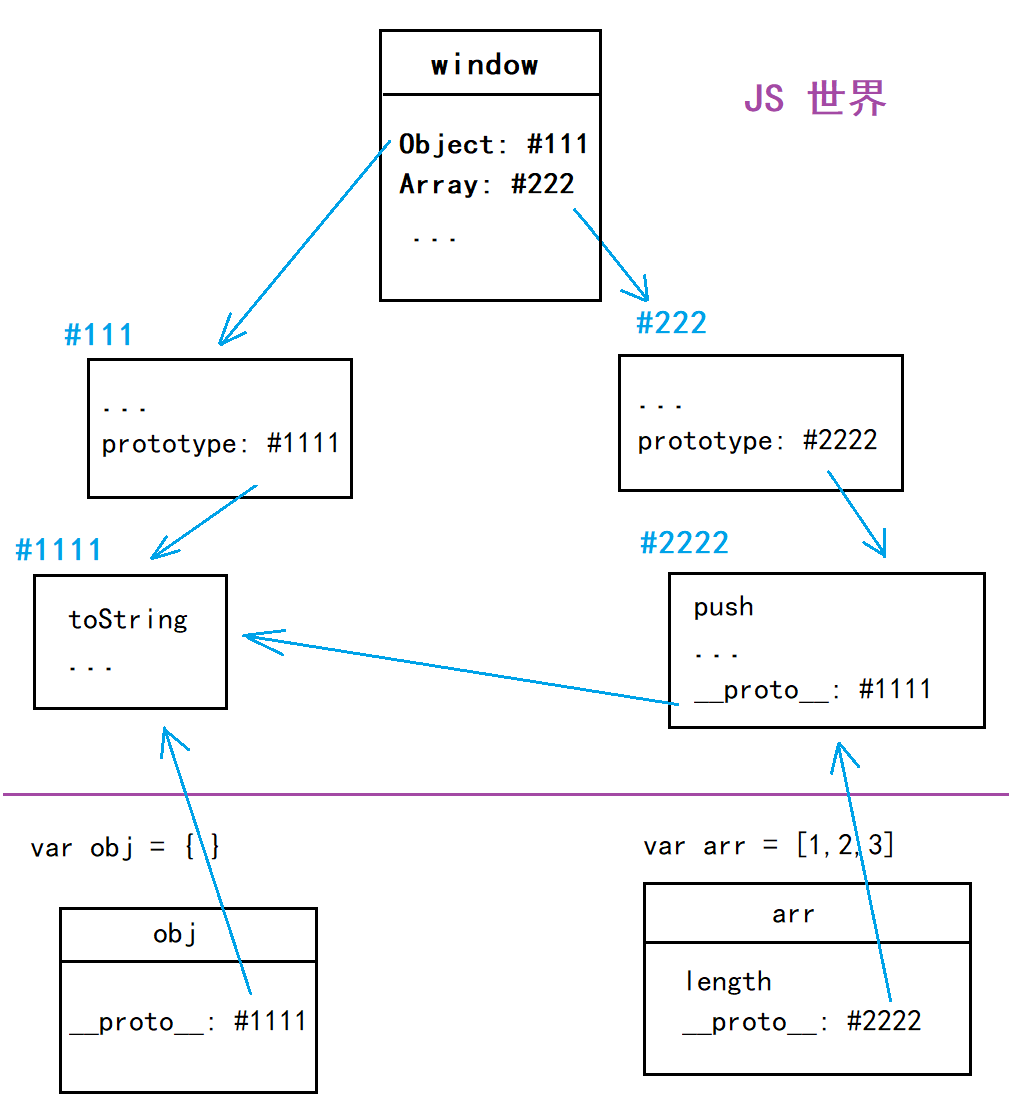
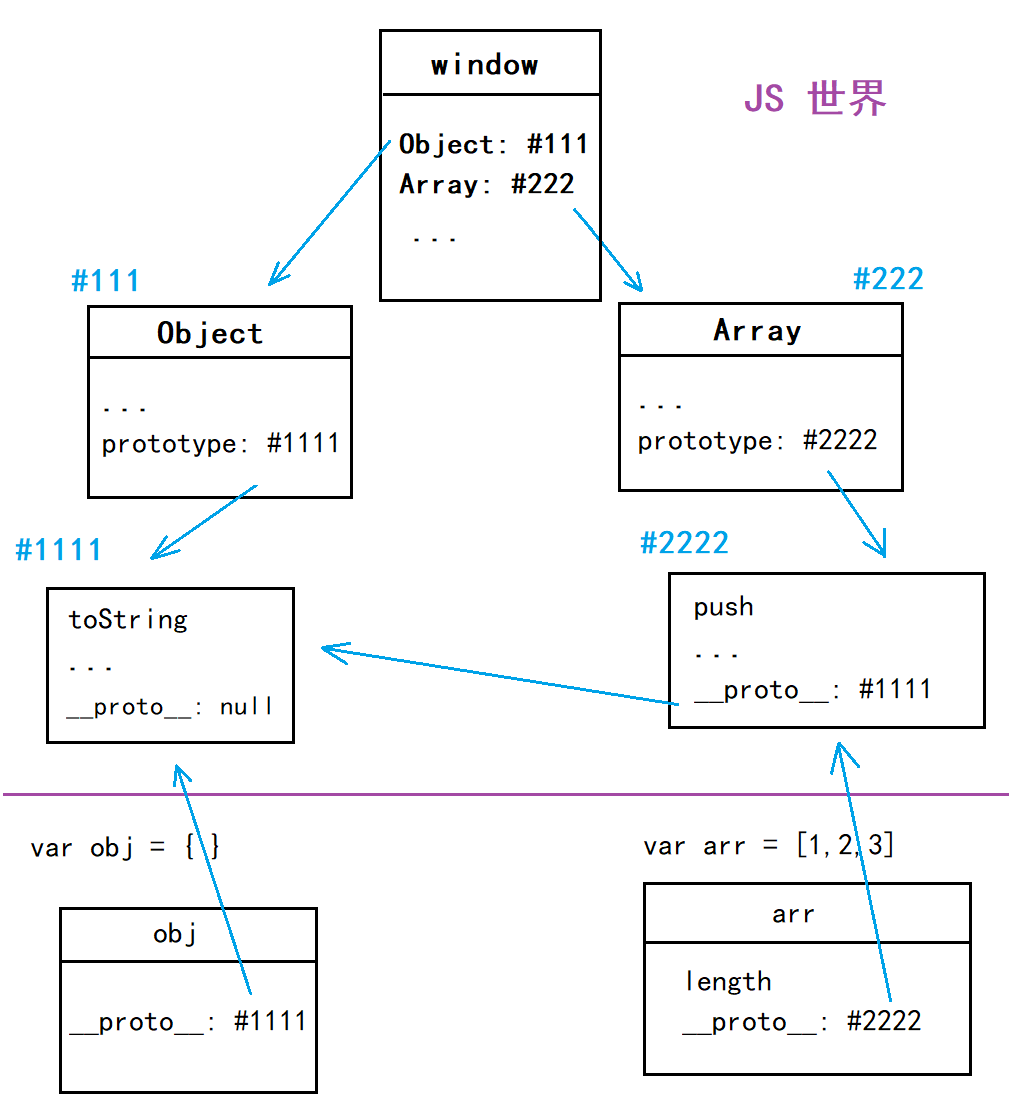
JS对象

diff --git a/JavaScript/JS数据类型.md b/JavaScript/JS数据类型.md
@@ -1,0 +1,146 @@
+# JS 数据类型
+
+推荐网站：[JavaScript 秘密花园](https://bonsaiden.github.io/JavaScript-Garden/zh/)
+
+### 数字与字符串
+
+* 数字能加减乘除，字符串只能拼接
+* 字符串能表示电话号码，数字不行
+
+###### 存储形式
+
+* 数字用 64 位浮点数形式存储
+* 字符串用类似 UTF8 形式存储（UCS-2）
+
+###### 字符编码
+
+* 0：48
+* A：65
+* a：97
+
+### 数据类型
+
+* ### number
+
+  * ###### 特殊值
+
+    * 正 0 和 负 0
+    * 无穷：Infinity、+Infinity、-Infinity
+    * 无法表示的数字：NaN
+
+  * ###### 范围
+
+    * Number.MAX_VALUE：1.7976931348623157e+308
+    * Number.MIN_VALUE：5e-324
+
+  * ###### 精度
+
+    * 最多 52+1 个二进制有效数字，对应十进制：9e+15
+    * 小于 90 开头16位的有效数字都能精确表示
+
+* ### string
+
+  使用 2 字节定长 UTF-8  
+
+  * ###### 转义
+
+    * \\' 表示 '
+    * \\n 表示换行
+    * \\r 表示回车
+    * \\t 表示 tab 制表符
+    * \\\ 表示 \
+    * \\uFFFF 表示对应的 Unicode 字符
+    * \\xFF 表示前 256 个 Unicode 字符
+
+  * ###### 属性
+
+    * string.length
+    * string[index]
+
+  * ###### base64转码
+
+    * 正常字符串转为 Base64 编码的字符串：window.btoa
+    * Base64 编码的字符串转为原来的字符串： window.atob
+
+* ### bool
+
+  * ###### 五个 falsy 值
+
+    相当于 false 但又不是 false
+
+    * undefined
+    * null
+    * 0
+    * NaN
+    * ''
+
+* ### undefined
+
+  * 声明变量没有赋值，默认值为 undefined
+  * 函数没有 return，默认 return undefined
+  * 习惯上非对象空值写为 undefined
+
+* ### null
+
+  * 习惯上对象空值写为 null
+
+* ### object
+
+* ### symbol
+
+* ### bigint
+
+### 变量声明
+
+### let
+
+###### 规则
+
+* 遵循块作用域，即：使用范围不超出 {}
+* 不能重复声明
+* 可以赋值，也可以不赋值
+* 必须先声明再使用
+* 全局声明的 let 变量，不会变成 window 的属性
+* 配合 for 循环使用有奇效
+
+### const
+
+###### 规则
+
+* 遵循块作用域，即：使用范围不超出 {}
+* 不能重复声明
+* 声明时就要赋值，赋值后不能改变
+* 必须先声明再使用
+* 全局声明的 const 变量，不会变成 window 的属性
+
+### 类型转换
+
+* #### number => string
+
+  * String(n)
+  * n + ''
+
+* #### string => number
+
+  * Number(s)
+  * parseInt(s) （转换为整数，但其实还是浮点数）/ parseFloat(s)（转换为浮点数）
+  * s - 0
+
+* #### x => bool
+
+  * Boolean(x)
+  * !!x
+
+* #### x => string
+
+  * String(x)
+
+    有bug：String(100000000000000000000) => 1e+22
+
+  * x.toString()
+
+    1.toString() 无法识别
+
+    * (1).toString()
+    * 1 .toString()
+    * 1..toString()

diff --git a/JavaScript/JS对象.md b/JavaScript/JS对象.md
@@ -1,0 +1,104 @@
+# JS 对象
+
+### 定义
+
+* 无序的数据集合
+* 键值对的集合
+
+###### 键值对
+
+属性名（键名）：属性值（键值）
+
+### 写法
+
+```javascript
+let obj = {
+    ’name‘: 'zxy',
+    ’age‘: 18
+}
+---------------
+let obj = new Object({’name‘: 'zxy'})
+---------------
+console.log({’name‘: 'zxy'})
+---------------
+// 用变量当属性名
+let a = 'xxx'
+// let a = Symbol()，除了字符串，symbol也能做属性名
+let obj = {
+    [a]: 111
+}
+// obj => { xxx: 111  }
+```
+
+### 细节
+
+* 键名是字符串，不是标识符，可以包含任意字符
+* 键名引号可省略，省略之后部分字符不能用
+* **省略引号依然是字符串**，数字变成字符串会进行换算
+* Object.keys(obj) 可以得到 obj 的所有 key
+
+### 原型
+
+* JS 中每个对象里有一个隐藏属性：\__proto__（名称没有规范）
+* 隐藏属性储存着其 **共有属性组成的对象** 的地址
+* **公有属性组成的对象** 叫 原型
+* 即：隐藏属性储存着原型的地址
+
+##### 每个对象都有原型
+
+* 原型里存着对象的共有属性
+* obj.\__proto__ 存着原型的地址
+
+##### 对象的原型也是对象
+
+* 对象的原型也有原型
+* obj = {} 的原型即为所有对象的原型
+* 这个原型包含所有对象的共有属性，是对象的根
+* 这个原型的原型为 null
+
+### 增删改查
+
+#### 删
+
+* delete obj.xxx
+* delete obj['xxx']
+
+#### 查
+
+* 查看所有属性：Object.keys(obj)
+* 查看所有值：Object.values(obj)
+* 查看所有属性和值：Object.entries(obj)
+* 查看自身 + 共有属性：
+  * console.dir(obj)
+  * Object.keys(obj.\__proto__)
+* 查看某一个属性：
+  * obj.key
+  * obj['key']
+
+###### 是否含有属性
+
+'xxx' in obj
+
+（obj.xxx === undefined 为 true 不能证明不含有该属性，该属性值可能为 undefined）
+
+###### 属性是否共有
+
+obj.hasOwnProperty('key')
+
+#### 写
+
+##### 直接赋值
+
+* obj.key = value
+* obj['key'] = value
+* let a = 'key', obj[a] = value
+
+##### 批量赋值
+
+* Object.assign( obj, { key1 : value1, key2 : value2, ... } )
+
+**无法通过自身修改或增加共有属性**
+
+* 修改原型：window.Object.prototype.key = 'xxx'，一般不要修改原型
+
+* 增加、创建原型：let a =  Object.create(obj)，以 obj 为原型创建 a，obj 依然会指向最初的原型，形成原型链
